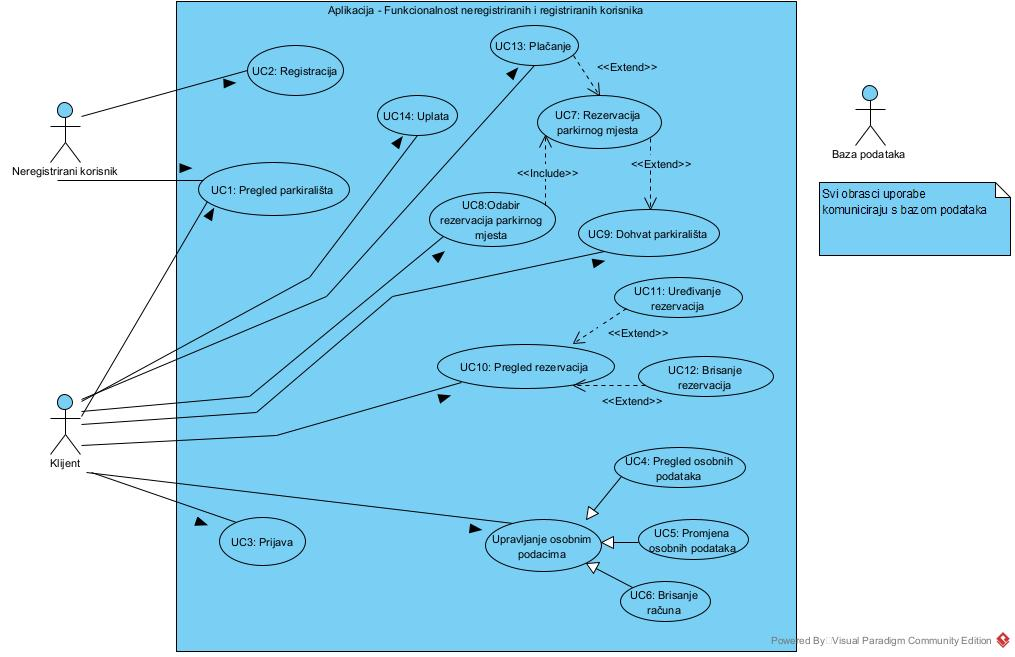
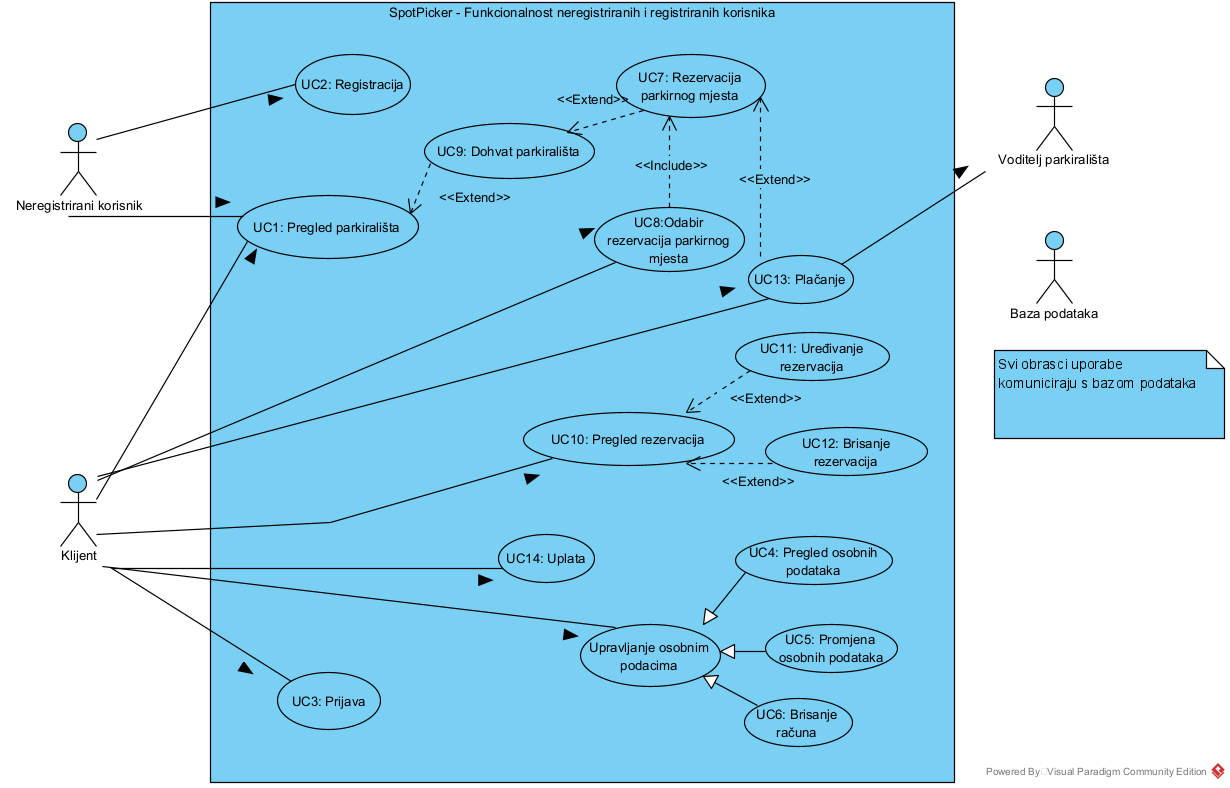
Promjena u UC13 - Plačanje, Promjenjeni dijagrami, prototip nefunkcionalnih zahtjeva
Texlive mi ne radi help pls

diff --git a/dokumentacija/Specifikacija_programske_potpore.tex b/dokumentacija/Specifikacija_programske_potpore.tex
@@ -450,14 +450,14 @@
 	
 						\item \textbf{Glavni sudionik: }Klijent
 						\item  \textbf{Cilj:} Platiti parkiranje
-						\item  \textbf{Sudionici:} Baza podataka
+						\item  \textbf{Sudionici:} Baza podataka, Voditelj parkirališta
 						\item  \textbf{Preduvjet:} Klijent je prijavljen, parkiralište se plača aplikacijom
 						\item  \textbf{Opis osnovnog tijeka:}
 						
 						\item[] \begin{packed_enum}
 	
-							\item Uzme se određena svota iz računa Klijenta
-							\item Novo stanje se spremi u bazu podataka
+							\item Uzme se određena količina iz računa Klijenta
+							\item Stavlja se na račun Voditelja parkirališta koje se rezervira
 							\item Rezervacija se označi plačenom 
 							
 							
@@ -693,7 +693,7 @@
 						\item[] \begin{packed_enum}
 	
 							\item Izabere se opcija prikaza statistike za parkiralište
-							\item Prikazuje se statistika zauzetosti mjesta dotičnog parkirališta u obliku grafa
+							\item Prikazuje se statistika zauzetosti mjesta dotičnog parkirališta
 							
 							
 						\end{packed_enum}
@@ -719,5 +719,13 @@
 			\textbf{\textit{dio 1. revizije}}\\
 		 
 			 \textit{Nefunkcionalni zahtjevi i zahtjevi domene primjene dopunjuju funkcionalne zahtjeve. Oni opisuju \textbf{kako se sustav treba ponašati} i koja \textbf{ograničenja} treba poštivati (performanse, korisničko iskustvo, pouzdanost, standardi kvalitete, sigurnost...). Primjeri takvih zahtjeva u Vašem projektu mogu biti: podržani jezici korisničkog sučelja, vrijeme odziva, najveći mogući podržani broj korisnika, podržane web/mobilne platforme, razina zaštite (protokoli komunikacije, kriptiranje...)... Svaki takav zahtjev potrebno je navesti u jednoj ili dvije rečenice.}
+			 \begin{packed_enum}
+
+				\item Koristiti OSRM za dohvat rute na mapi
+				\item Koristiti Overpass API za dohvat početne informacije o parkirališnim mjestima
+				\item Sustav mora biti implementiran kao web aplikacija koristeći isključivo objektno-orijentirane jezike
+				\item Statistika parkirališta se prikazuje u obliku grafa
+				
+			 \end{packed_enum}
 			 
 			 
